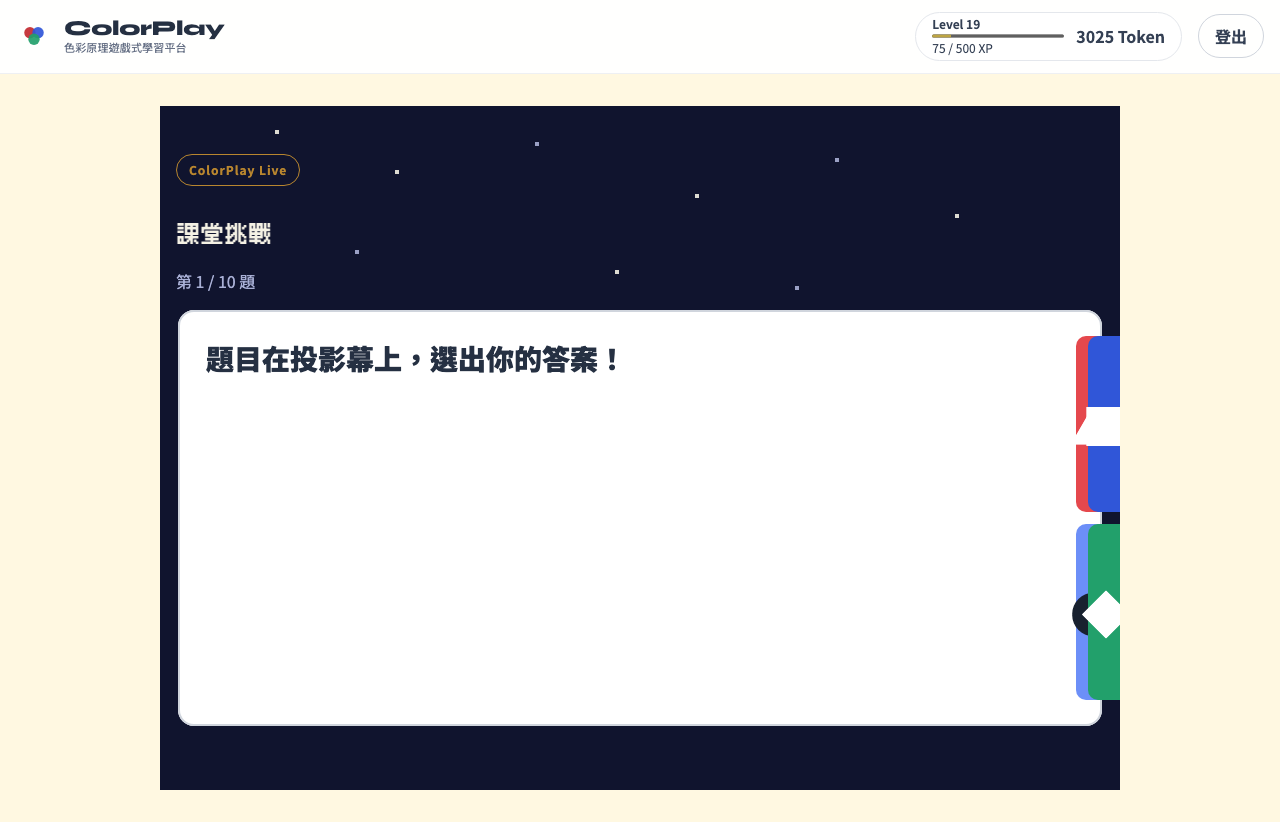
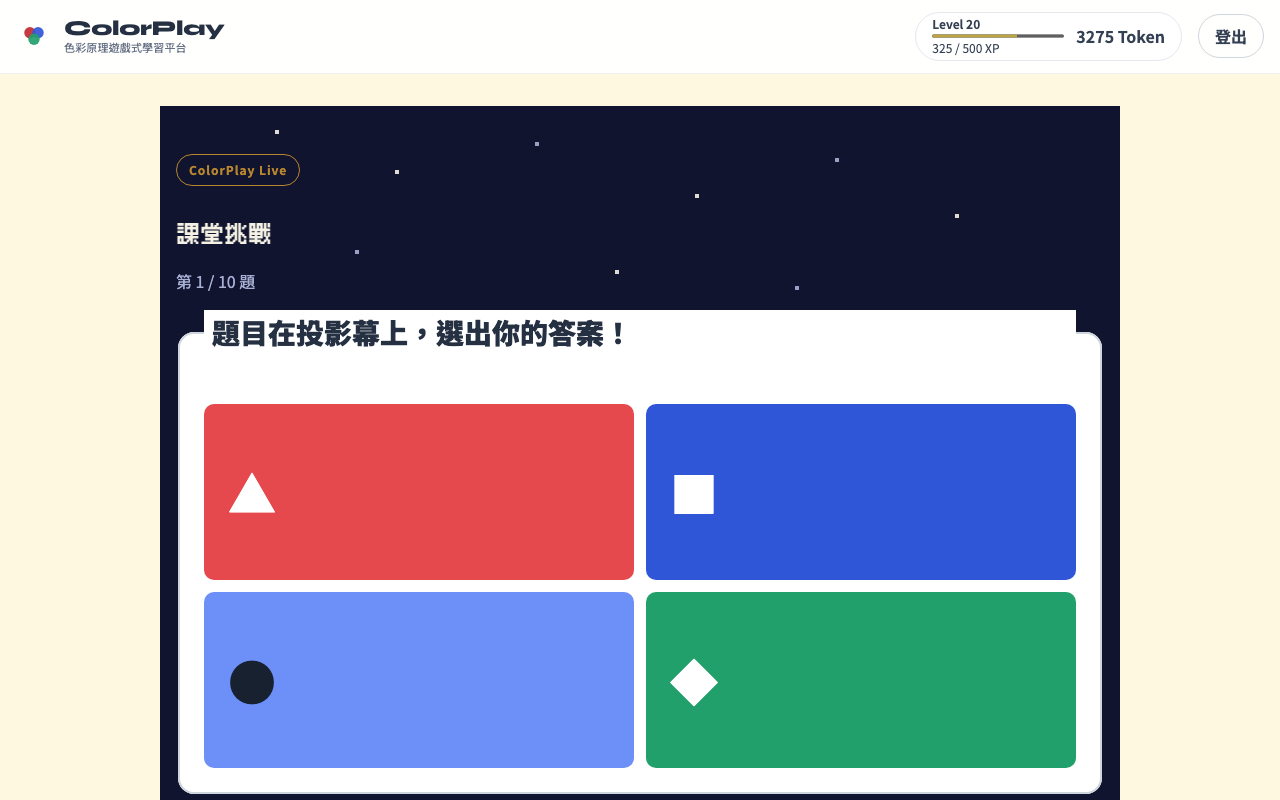
fix(live): give the question legend its own ground instead of floating it

diff --git a/src/styles/globals.css b/src/styles/globals.css
@@ -6452,10 +6452,12 @@ select#dashboard-classroom {
   color: var(--ink-900);
 }
 
-/* 終審 C1:legend 預設跨在 fieldset 邊框線上,上半截落在夜底(1.36:1)——
-   float 使其完全落在卡片內。 */
+/* 終審 C1(修正版):legend 預設跨在 fieldset 邊框線上,上半截落在夜底(1.36:1)。
+   float 會讓 .live-options(BFC)縮到浮動框旁的殘餘寬度並溢出——改為給 legend
+   自身不透明淺底,跨線處照樣是深字淺底,零版型變動。 */
 .live-guild-raid .question-card legend {
-  float: left;
+  background: var(--color-surface);
+  padding: 0 var(--space-2);
 }
 
 /* 裁定:live-team-scoreboard 為零樣式裸 section(計畫誤列為淺卡)——
